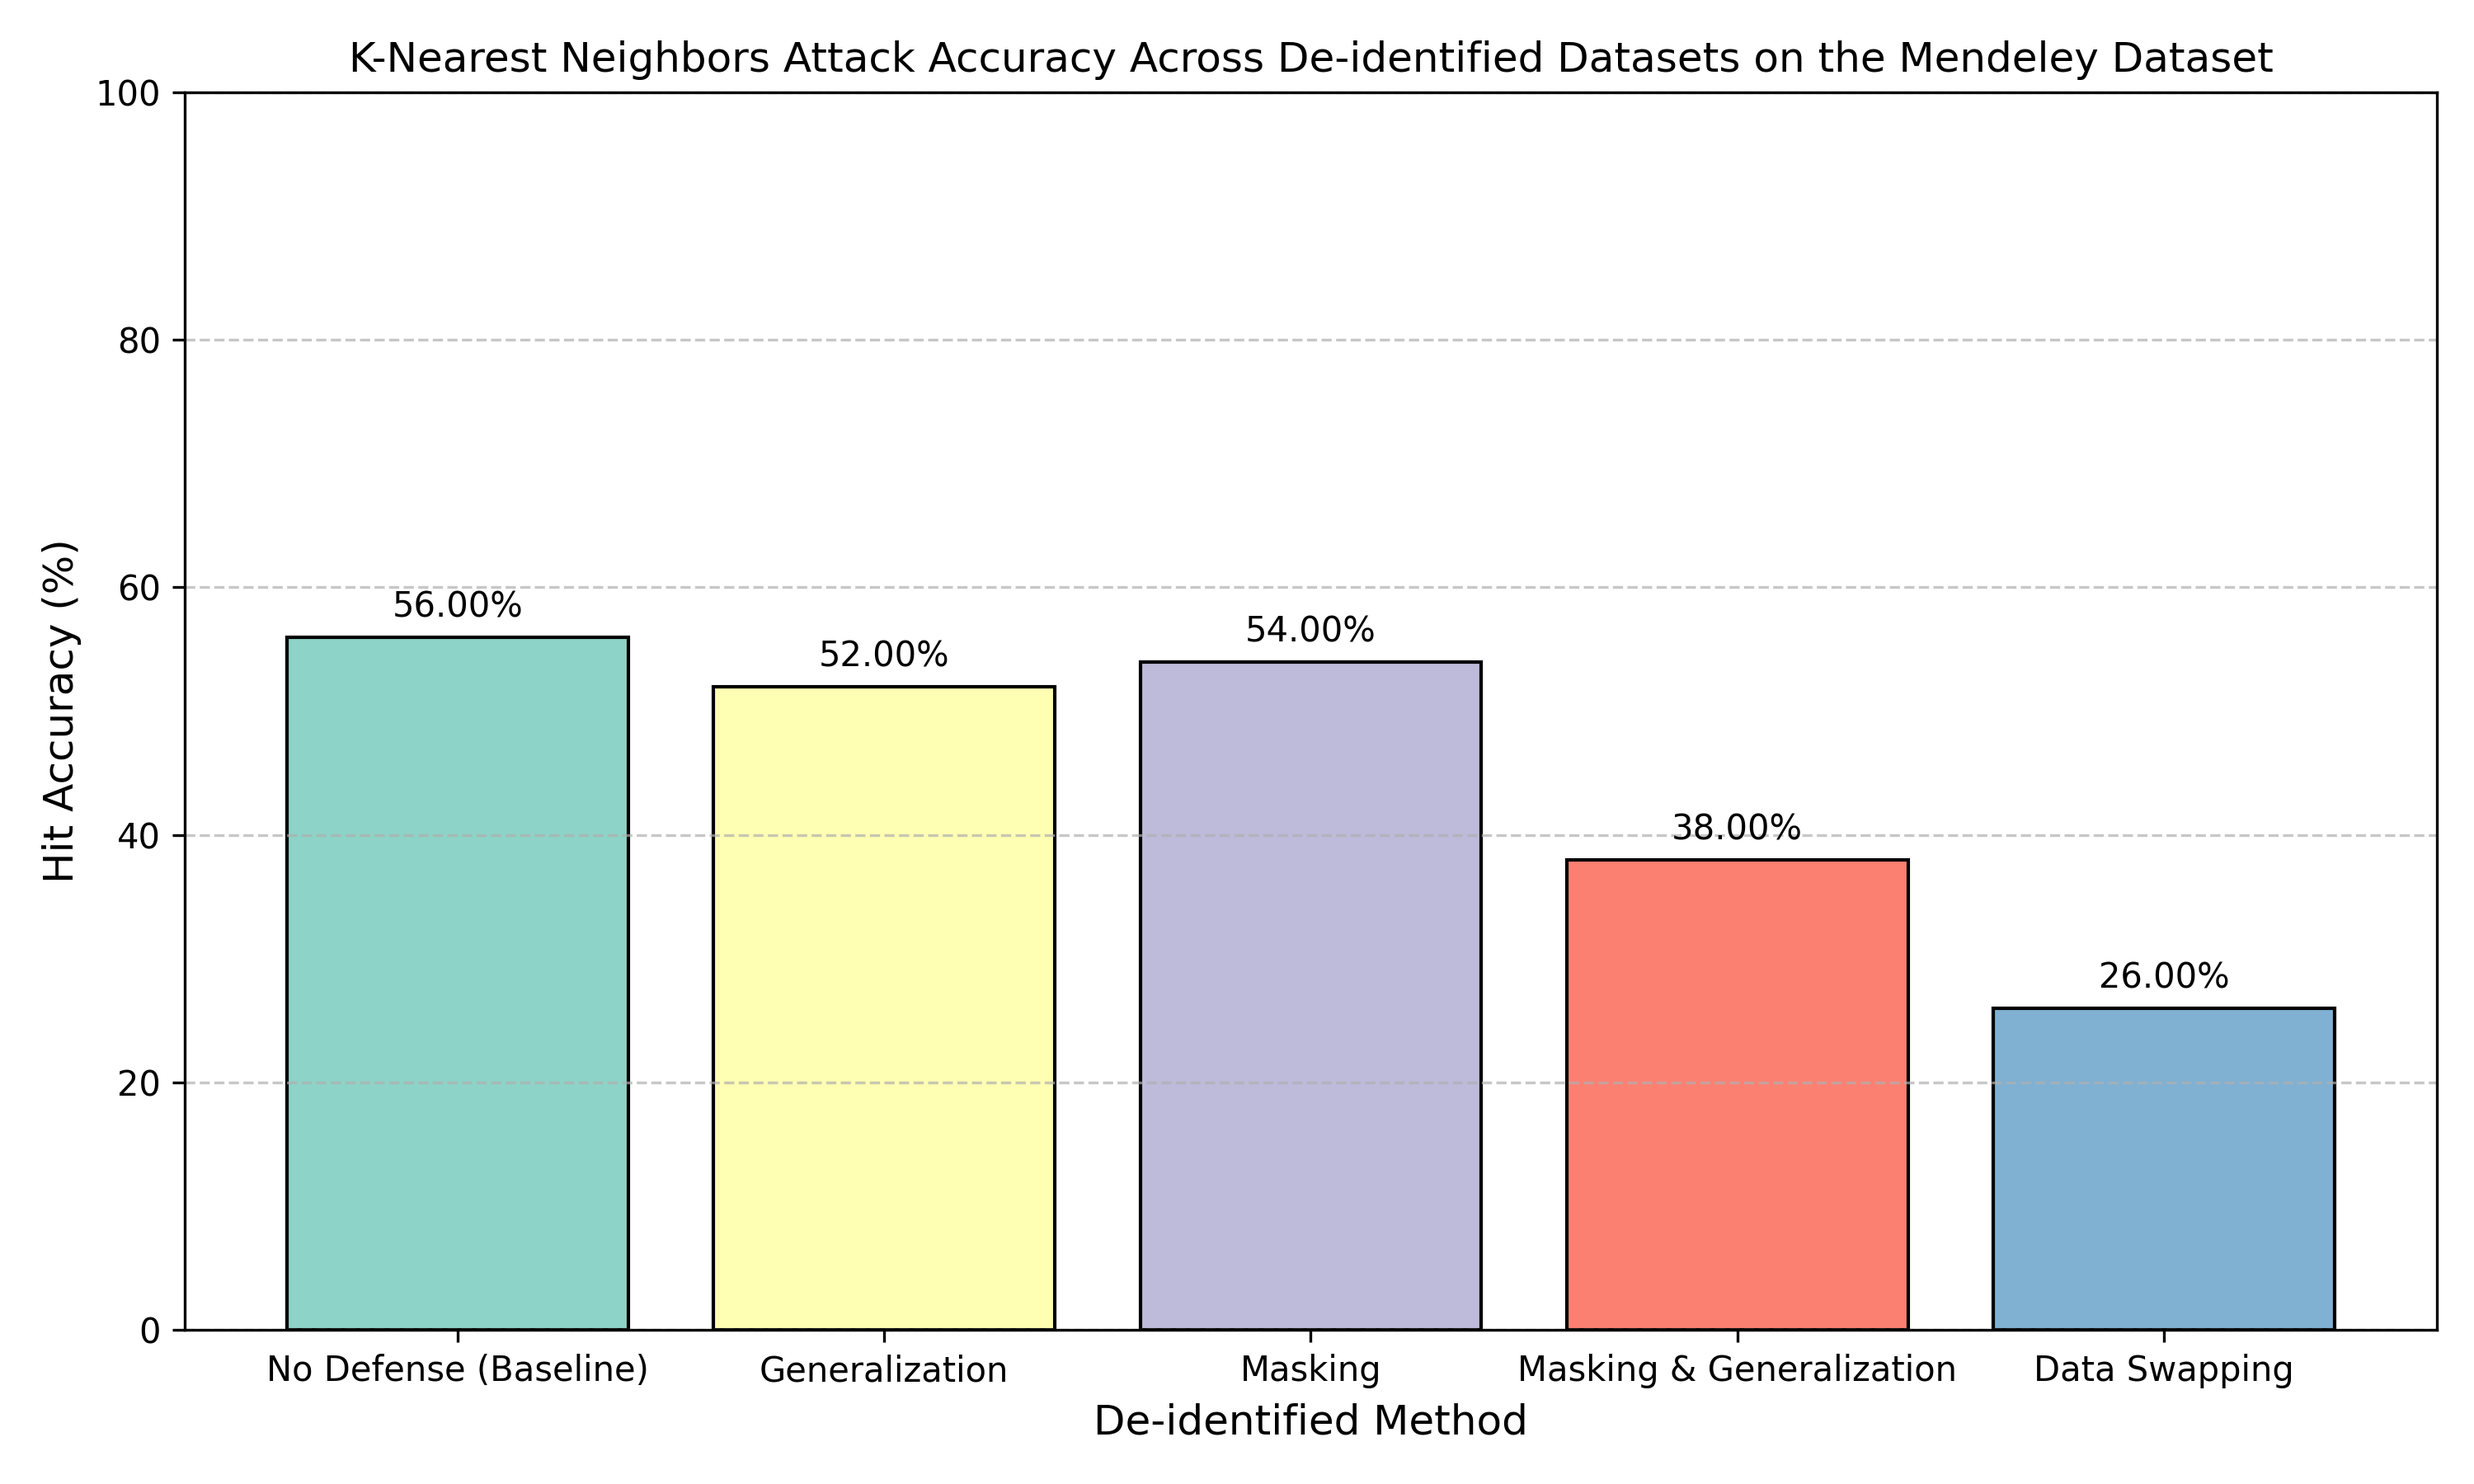
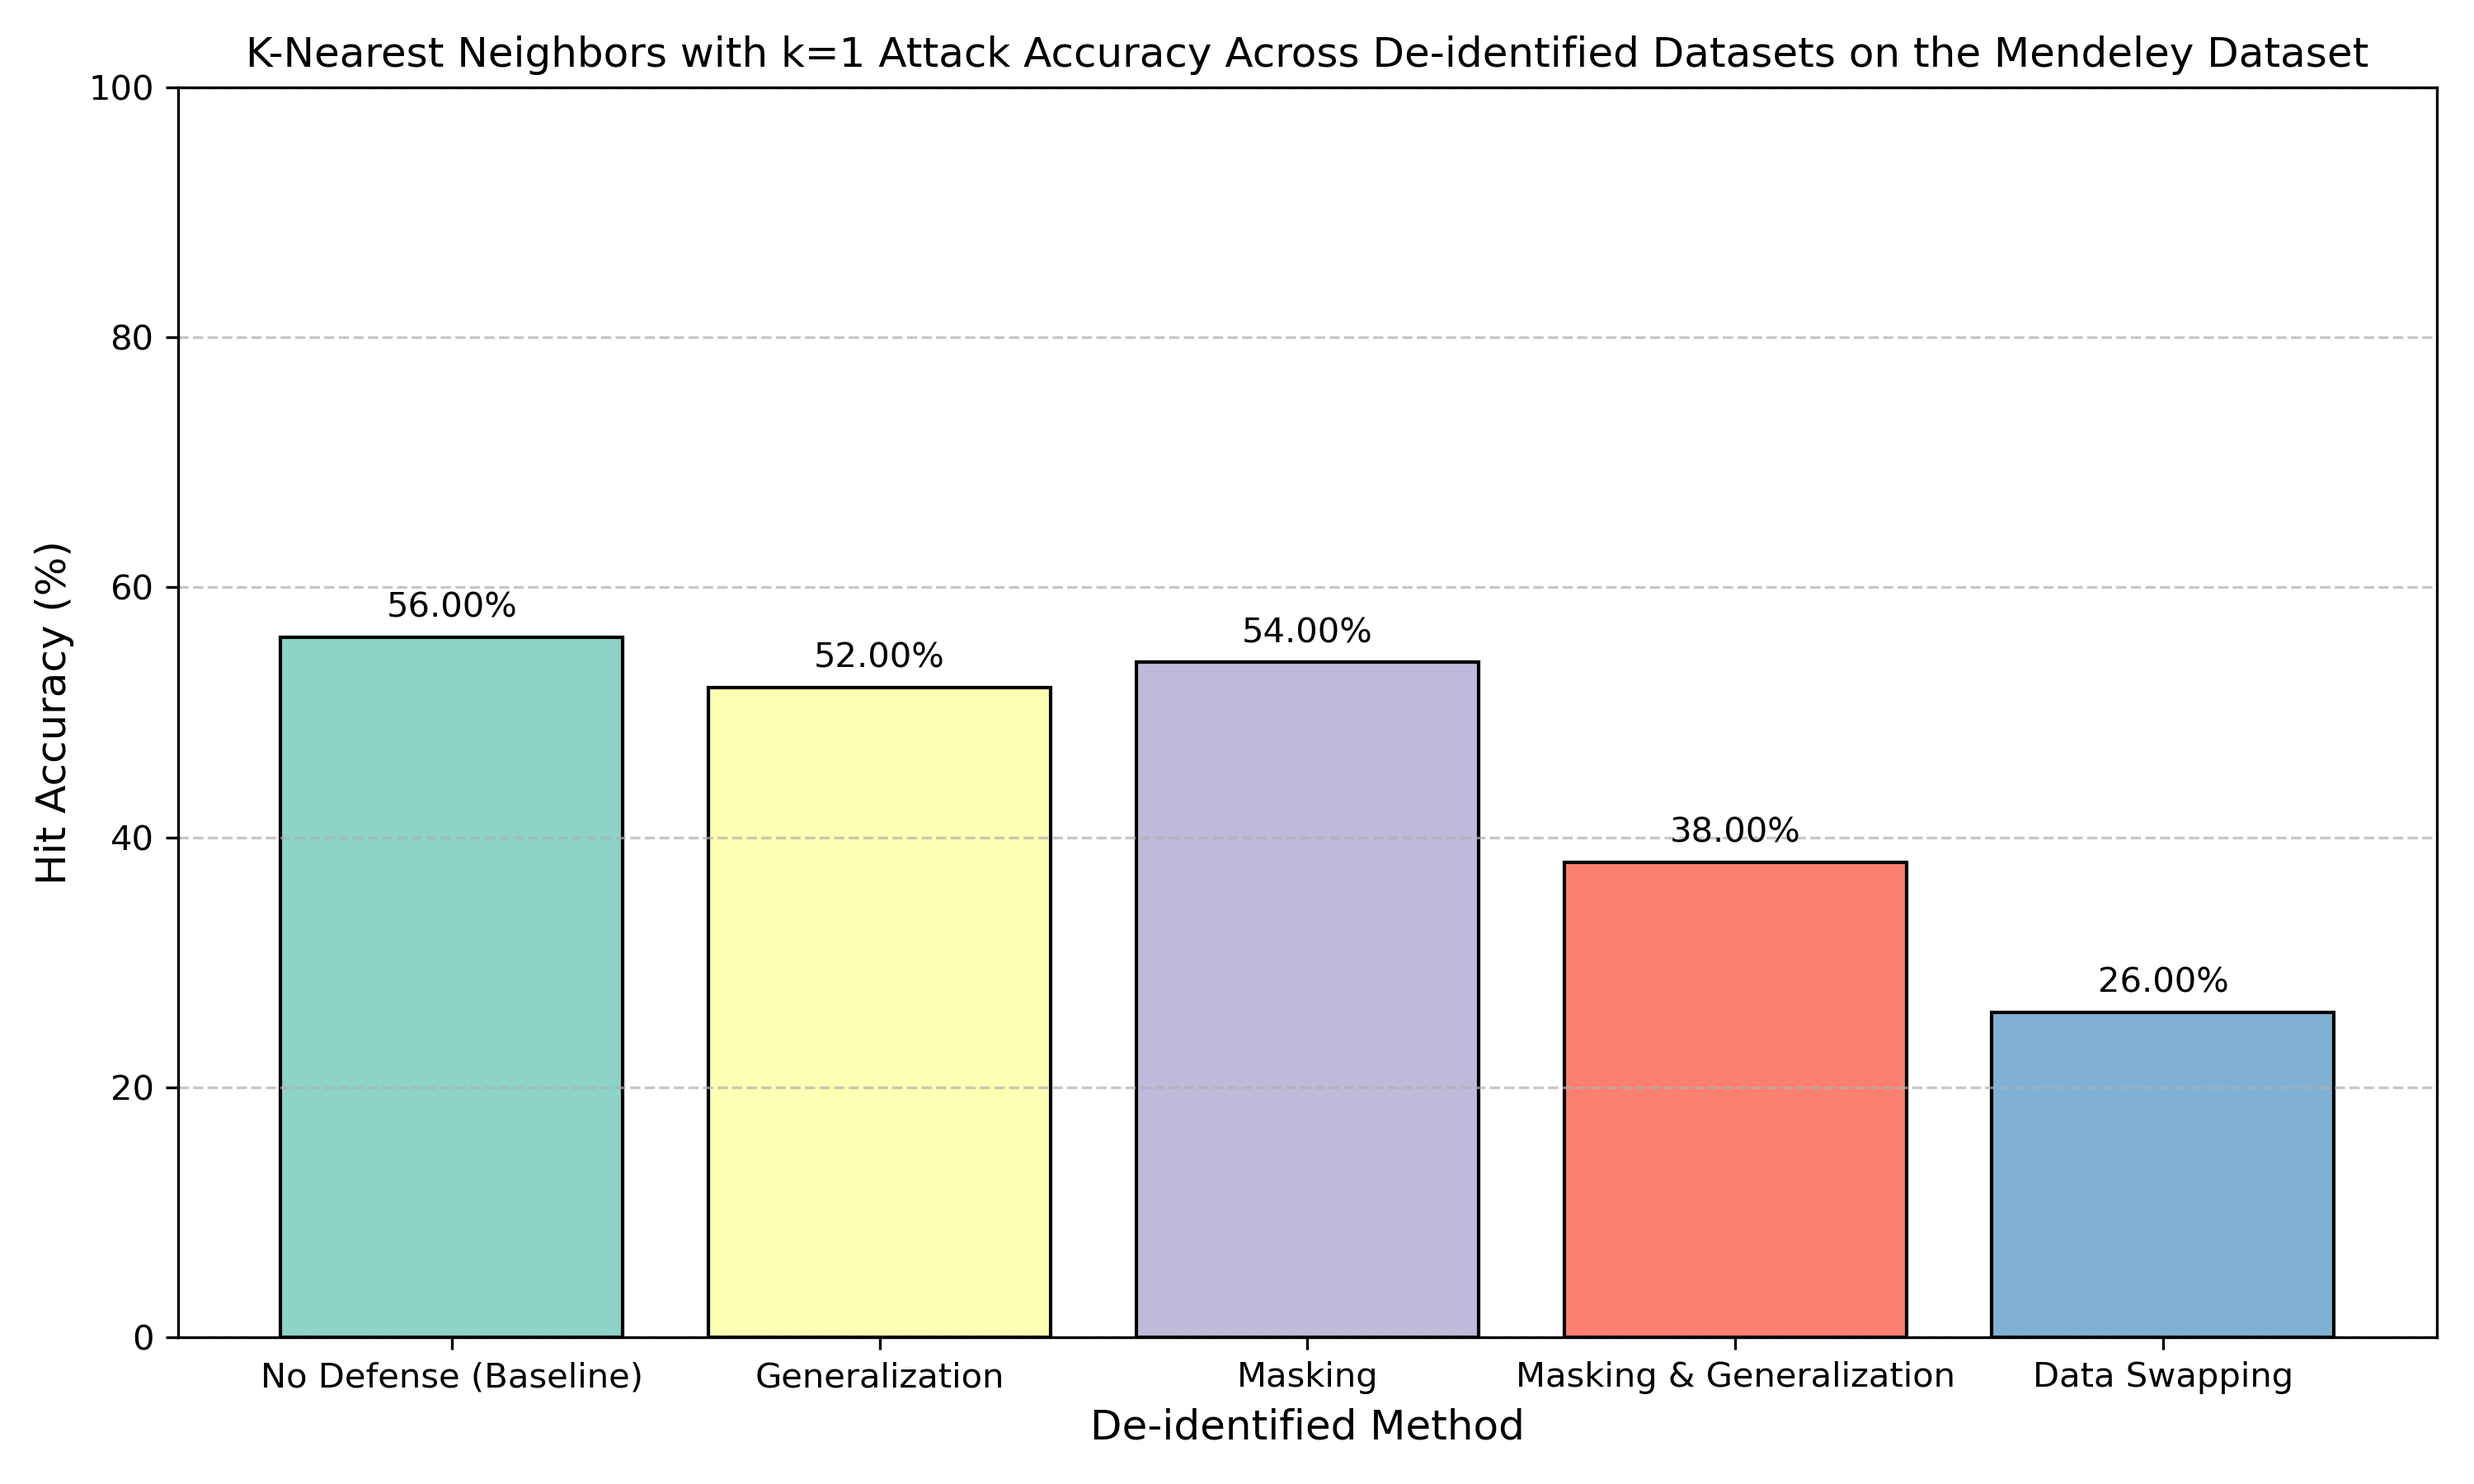
changed some things

diff --git a/benchmarks/attacks/k-nearest-neighbors-mendelay.py b/benchmarks/attacks/k-nearest-neighbors-mendelay.py
@@ -6,10 +6,12 @@ from sklearn.pipeline import Pipeline
 from sklearn.neighbors import NearestNeighbors
 from sklearn.preprocessing import OneHotEncoder, StandardScaler, OrdinalEncoder
 
-def perform_attack(df_protected, df_attacker, quasi_identifiers):
-
+def perform_attack(df_protected, df_attacker, quasi_identifiers, k):
+    # can include the outcommonted ones to make it more dynamic
     numerical_cols = df_protected[quasi_identifiers].select_dtypes(include=['number']).columns.tolist()
-    categorical_cols = [col for col in quasi_identifiers if col not in numerical_cols]
+    text_cols = [col for col in quasi_identifiers if col not in numerical_cols]
+    #numerical_cols =  ['Latitude', 'Longitude']
+    #text_cols = ['Postal Code'] 
 
     # Pipeline for numeric data
     # We use StandardScaler so that numbers scale correctly, since they can have outliers 
@@ -20,7 +22,7 @@ def perform_attack(df_protected, df_attacker, quasi_identifiers):
     # 'ignore' handles cases where a category was completely masked out in the protected set.
     text_pipeline = Pipeline([('imputer', SimpleImputer(strategy='most_frequent')),('encoder', OneHotEncoder(handle_unknown='ignore'))])
 
-    preprocessor = ColumnTransformer([('num', num_pipeline, [c for c in numerical_cols if c in quasi_identifiers]),('cat', text_pipeline, categorical_cols)])
+    preprocessor = ColumnTransformer([('num', num_pipeline, [c for c in numerical_cols if c in quasi_identifiers]),('cat', text_pipeline, text_cols)])
 
     # Transform the data. We fit on the protected data because an attacker 
     # would only have access to the released dataset to base their scales/categories on.
@@ -28,7 +30,7 @@ def perform_attack(df_protected, df_attacker, quasi_identifiers):
     X_attacker = preprocessor.transform(df_attacker[quasi_identifiers])
 
     # Setup the KNN model
-    knn = NearestNeighbors(n_neighbors=1, metric='manhattan')
+    knn = NearestNeighbors(n_neighbors=k, metric='manhattan')
     knn.fit(X_protected)
 
     # Find the single nearest neighbor for each attacker record
@@ -63,7 +65,7 @@ def evaluate_attack(results, df_original, defense_name):
     print(f"Defense Method: {defense_name} - Hit Precision: {hit_precision:.2f}% ({correct_links}/{total_attacks} correct links)")
     return hit_precision
 
-def plot_results(results_dict):
+def plot_results(results_dict, k):
     plt.figure(figsize=(10, 6)) 
     methods = list(results_dict.keys())
     accuracies = list(results_dict.values())
@@ -75,7 +77,7 @@ def plot_results(results_dict):
     plt.ylim(0, 100)
     plt.ylabel('Hit Accuracy (%)', fontsize=12)
     plt.xlabel('De-identified Method', fontsize=12)
-    plt.title('K-Nearest Neighbors Attack Accuracy Across De-identified Datasets on the Mendeley Dataset', fontsize=12)
+    plt.title(f'K-Nearest Neighbors with k={k} Attack Accuracy Across De-identified Datasets on the Mendeley Dataset', fontsize=12)
 
     plt.grid(axis='y', linestyle='--', alpha=0.7)
     plt.tight_layout()
@@ -86,7 +88,7 @@ if __name__ == "__main__":
     df_original = pd.read_csv('../../datasets/mendeley_data.csv')
 
     quasi_identifiers = ['Postal Code', 'Latitude', 'Longitude']
-
+    k = 1
     df_attacker = df_original.sample(50, random_state=42)[['IP Address'] + quasi_identifiers] 
 
     datasets_to_test = {
@@ -100,9 +102,9 @@ if __name__ == "__main__":
     final_results = {}
     
     for defense_name, df_protected in datasets_to_test.items():
-        results = perform_attack(df_protected, df_attacker, quasi_identifiers)
+        results = perform_attack(df_protected, df_attacker, quasi_identifiers, k)
         
         hit_accuracy = evaluate_attack(results, df_original, defense_name)
         final_results[defense_name] = hit_accuracy
         
-    plot_results(final_results)
+    plot_results(final_results, k)
